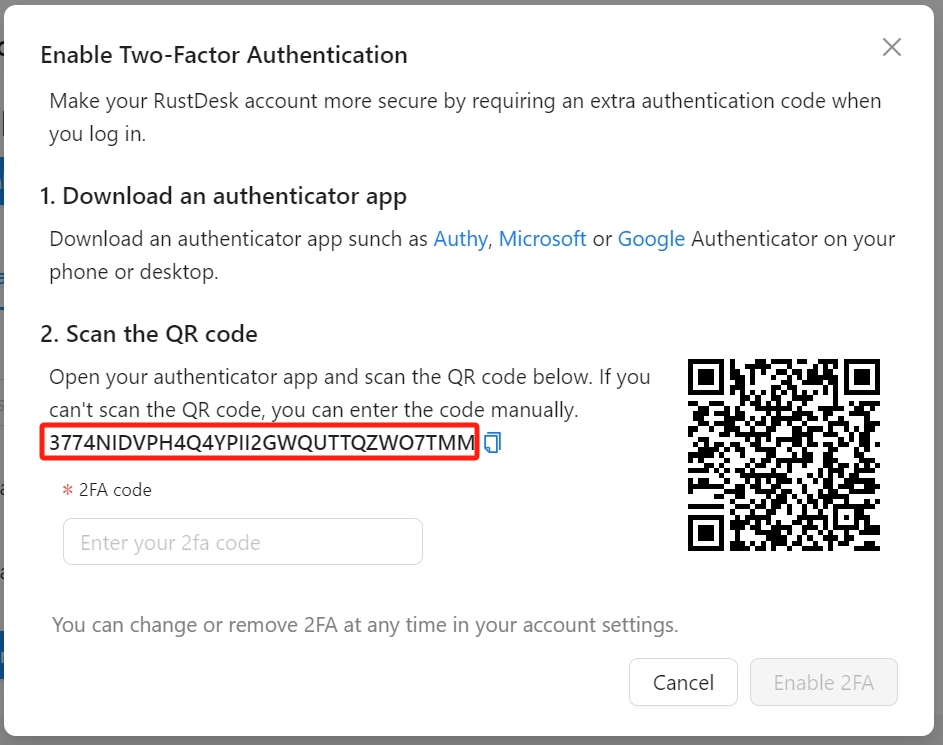
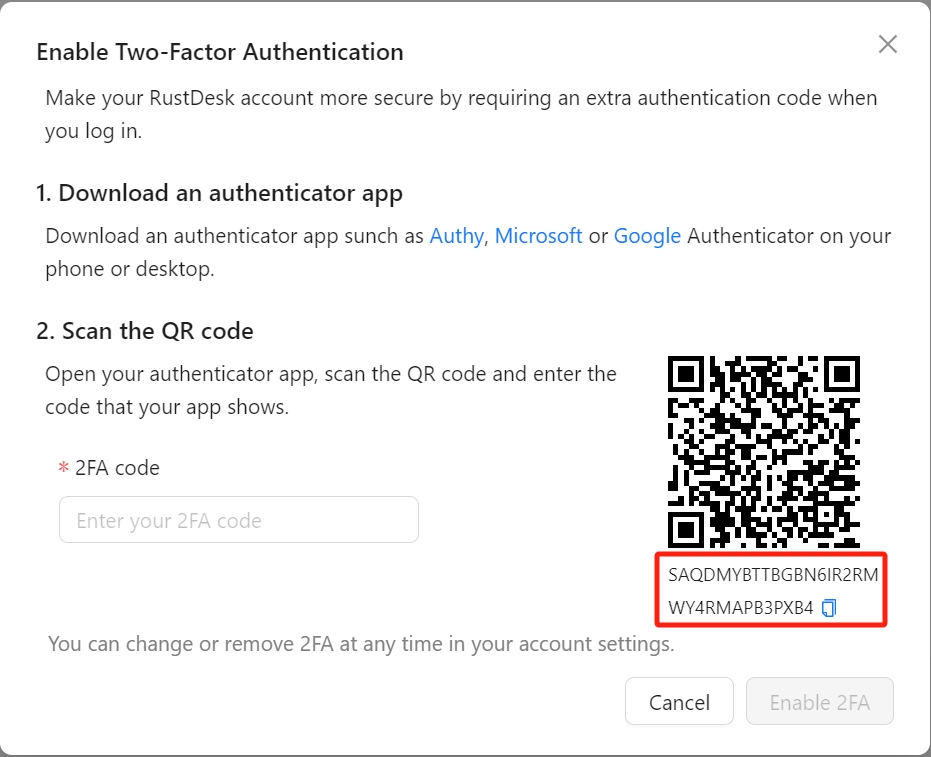
docs, 2fa

Changed region(s): [[0.0, 0.0, 1.0, 1.0], [0.8099, 0.8953, 0.9345, 0.957]]

diff --git a/content/self-host/rustdesk-server-pro/2FA/_index.en.md b/content/self-host/rustdesk-server-pro/2FA/_index.en.md
@@ -57,7 +57,7 @@ If you are inconvenient to scan the QR code, you can also enter the code here di
 
 After adding the account in the authenticator app, enter the verification code in the authenticator app to turn on 2FA.
 
-After 2FA is successfully turned on, RustDesk Server Pro will also be bound to 10 **backup codes**. So that you can use these **bacoup codes** to pass the verification even if you are unable to use the authenticator app.
+After 2FA is successfully turned on, RustDesk Server Pro will also be bound to 6 **backup codes**. So that you can use these **bacoup codes** to pass the verification even if you are unable to use the authenticator app.
 
 ![](/docs/en/self-host/rustdesk-server-pro/2FA/images/3-2fa-enable-4.png)
 
@@ -69,7 +69,7 @@ After 2FA is successfully turned on, RustDesk Server Pro will also be bound to 1
 
 #### Login verification
 
-Enable the "Enable 2FA login verification" option on the settings page.
+When 2FA is enabled, email login verification is no longer used. We will be using 2FA login verification instead.
 
 ![](/docs/en/self-host/rustdesk-server-pro/2FA/images/3-2fa-enable-login-5.png)
 
@@ -81,7 +81,7 @@ When logging in, you will be redirected to the verification page.
 
 #### Modify settings
 
-After turning on 2FA, modifying account settings requires additional 2FA verification.
+When 2FA is enabled, modifying account settings requires additional 2FA verification.
 
 ![](/docs/en/self-host/rustdesk-server-pro/2FA/images/3-2fa-settings-1.png)
 
